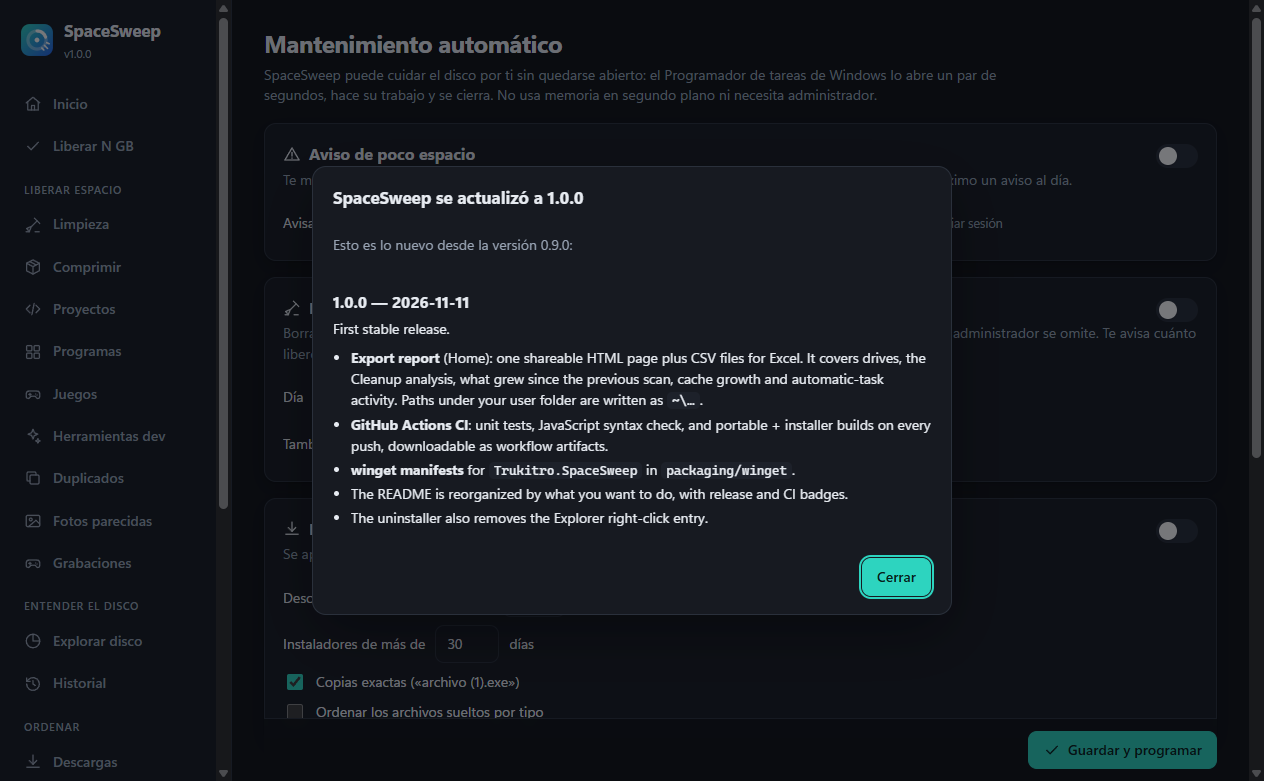
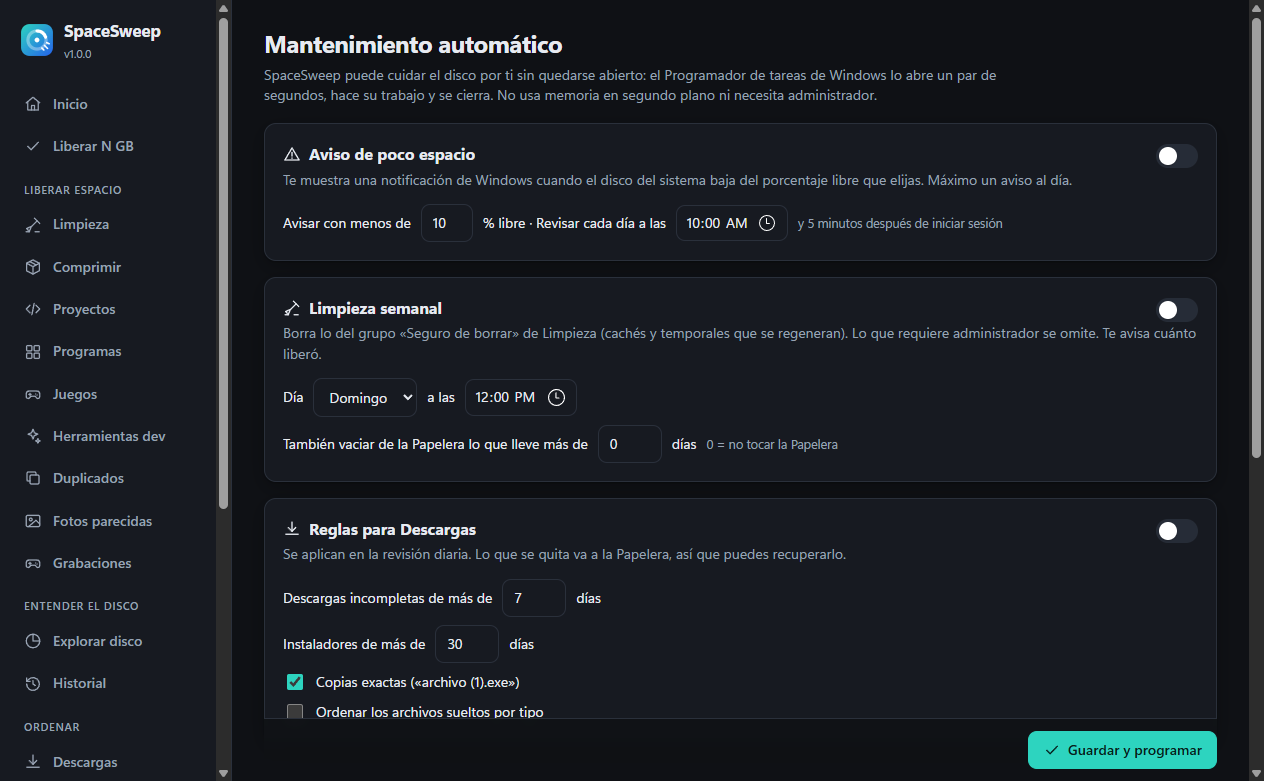
docs: retake README screenshots without the what's-new dialog
The screenshot tool now waits for start-up hooks and closes any
dialog or toast before each capture, failing if one stays open.

diff --git a/tools/screenshots.py b/tools/screenshots.py
@@ -85,7 +85,12 @@ def _declare():
     g.DeleteDC.argtypes = [vp]
 
 
-def capture(hwnd, path):
+def capture(hwnd, path, js=None):
+    if js:  # dialogs that open on their own (e.g. "What's new" after an update) must not cover the shot
+        js("document.querySelectorAll('.modal-back').forEach(m => m.remove()); "
+           "document.querySelectorAll('.toast').forEach(t => t.remove());", 0.6)
+        if js("document.querySelectorAll('.modal-back').length"):
+            raise RuntimeError("a dialog is still open")
     _declare()
     user32, gdi32 = ctypes.windll.user32, ctypes.windll.gdi32
     rect = wintypes.RECT()
@@ -145,21 +150,22 @@ def main():
     def run():
         try:
             until("typeof S !== 'undefined' && S.drives && S.drives.length > 0")
+            time.sleep(3)  # let boot hooks finish ("What's new" dialog, update check) before shooting
             js(f"S.lang = '{args.lang}'; S.theme = '{args.theme}'; applyTheme(); renderAll(); go('home');", 1.5)
             _declare()
             hwnd = ctypes.windll.user32.FindWindowW(None, "SpaceSweep")
             ctypes.windll.user32.SetForegroundWindow(hwnd)
-            capture(hwnd, os.path.join(OUT, "home.png"))
+            capture(hwnd, os.path.join(OUT, "home.png"), js)
 
             js("go('cleanup'); cleanupScan();", 1)
             until("S.cl.result !== null")
             js("document.querySelector('.main').scrollTop = 0;", 1)
-            capture(hwnd, os.path.join(OUT, "cleanup.png"))
+            capture(hwnd, os.path.join(OUT, "cleanup.png"), js)
 
             js(f"S.dl.folder = {dl!r}; S.dl.res = null; renderDownloads(); go('downloads'); downloadsScan();", 1)
             until("S.dl.res !== null")
             js("", 1)
-            capture(hwnd, os.path.join(OUT, "downloads.png"))
+            capture(hwnd, os.path.join(OUT, "downloads.png"), js)
 
             js(f"S.ph.folders = [{pics!r}]; S.ph.threshold = '8'; renderPhotos(); go('photos'); photosScan();", 1)
             until("S.ph.res !== null")
@@ -169,10 +175,10 @@ def main():
                 print("photos:", js("JSON.stringify({groups: S.ph.res.groups.length, thumbs: S.ph.thumbs.size, "
                                     "ok: [...S.ph.thumbs.values()].filter(Boolean).length, imgs: $$('#phBody img').length})"))
             js("document.querySelector('#phBody').scrollIntoView();", 1)
-            capture(hwnd, os.path.join(OUT, "photos.png"))
+            capture(hwnd, os.path.join(OUT, "photos.png"), js)
 
             js("go('auto');", 2)
-            capture(hwnd, os.path.join(OUT, "automatic.png"))
+            capture(hwnd, os.path.join(OUT, "automatic.png"), js)
         finally:
             window.destroy()
 
